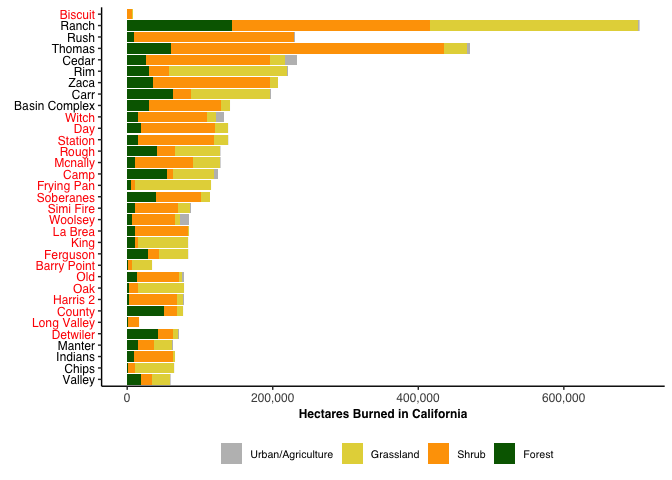
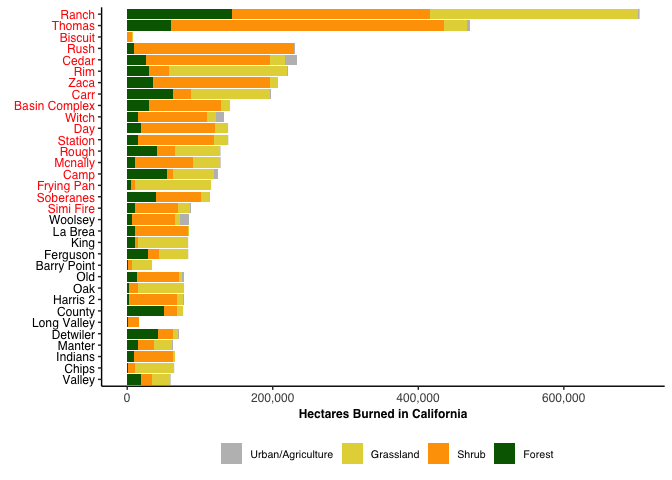
knitting :fire: final fig formatted.

Changed region(s): [[0.1875, 0.0, 0.9688, 0.125], [0.0312, 0.4375, 0.1562, 0.7188], [0.0312, 0.0, 0.1562, 0.25]]

diff --git a/analyses/land-cover.md b/analyses/land-cover.md
@@ -123,7 +123,10 @@ fire_perc<- fh %>%
   group_by(FIRE_NAME, Category, GIS_ACRES, YEARn) %>%
   summarise(area = sum(histogram_2)) %>%
   mutate(area = area * .078 * 2.47) %>%
-  na.omit() 
+  na.omit() %>% 
+  group_by(FIRE_NAME) %>% 
+  mutate(sumarea = sum(GIS_ACRES)) %>% 
+  arrange(desc(sumarea))
 
 cols <- c("Forest" = "darkgreen", "Grassland" = "#799479", "Shrub" = "#DBA901", "Urban/Agriculture" = "gray") 
 
@@ -307,13 +310,24 @@ megafires
 ``` r
 fire_final <- fire_perc %>% 
   transform(FIRE_NAME = map_chr(FIRE_NAME, str_to_title)) %>% 
-  mutate(c = ifelse(GIS_ACRES > 100000, "red", "black")) 
+  #mutate(c = ifelse(GIS_ACRES > 100000, "red", "black")) %>% 
+  group_by(FIRE_NAME) %>% 
+  mutate(sumarea = sum(GIS_ACRES)) %>% 
+  arrange(desc(sumarea))
 
-a <- fire_final$c
+name_color <- fire_final %>% 
+  select(FIRE_NAME,GIS_ACRES, sumarea) %>% 
+  distinct() 
+name_color <- name_color[-c(2:3),]
+name_color <- name_color %>% 
+  mutate(c = ifelse(GIS_ACRES > 100000, "red", "black")) %>% 
+  arrange(sumarea)
+a <- name_color$c
 
 final_fig<- fire_final %>%
+  arrange(desc(sumarea)) %>% 
   arrange(desc(Category)) %>%
-  ggplot(aes(x=reorder(FIRE_NAME, GIS_ACRES), y=area, fill= Category)) + 
+  ggplot(aes(x=reorder(FIRE_NAME, sumarea), y=area, fill= Category)) + 
   geom_bar(stat="identity") +
   scale_colour_manual(values = cols, aesthetics = c("colour", "fill")) +
   scale_y_continuous(labels = scales::comma) +
